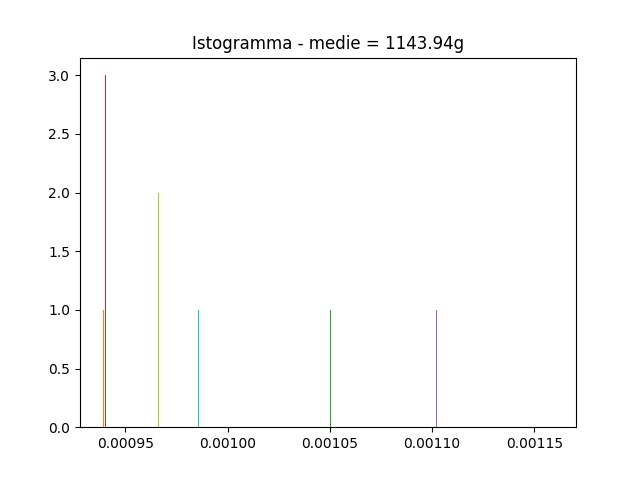
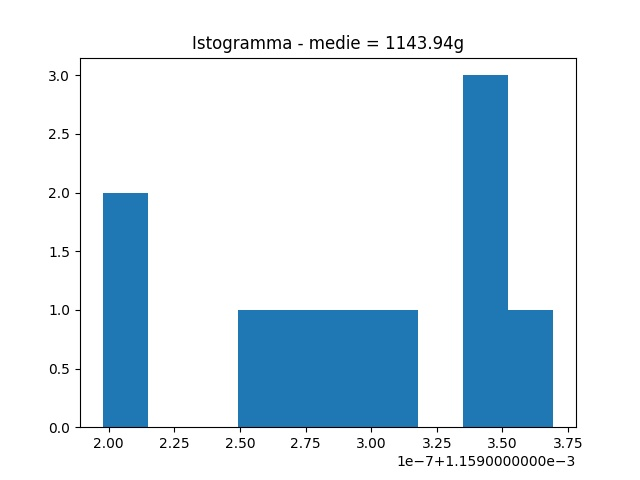
path

Changed region(s): [[0.125, 0.1562, 0.9062, 0.9688]]

diff --git a/ScriptGestioneFeatures/static_data_work/main.py b/ScriptGestioneFeatures/static_data_work/main.py
@@ -10,12 +10,13 @@ import PreparazioneFile
 url = 'https://raw.githubusercontent.com/EdoGitMira/Progetto_Laboratorio_Misure_pesatura_dinamica/main/dati'
 url_name_velocity = 'https://raw.githubusercontent.com/EdoGitMira/Progetto_Laboratorio_Misure_pesatura_dinamica/main/dati/speed.txt'
 
-path_testo = Path(__file__).parent / "../dati/Features/Statiche"
+path_repo = Path(__file__).parents[2]
+path_dir = os.path.join(path_repo, "./dati/Features/Statiche")
 file_name = "0-FeaturePesiSatici.txt"
-complete_name = os.path.join(path_testo, file_name)
+complete_name = os.path.join(path_dir, file_name)
 
 file_name_m_o_m = '1-FeaturePesiStaticiDiFeature.txt'
-complete_name_m_o_m = os.path.join(path_testo, file_name_m_o_m)
+complete_name_m_o_m = os.path.join(path_dir, file_name_m_o_m)
 
 
 
@@ -63,10 +64,10 @@ if __name__ == '__main__':
     #PlotFilesData.prepare_arrays(grams, voltage)
     #PlotFilesData.prepare_arrays(masses,means)
 
-    #intestazione = 'peso [g]' + '\t\t' + 'media [V]' + '\t\t' + 'std_dev [V]'
-    #scrittura_txt(lista, complete_name, intestazione)
+    intestazione = 'peso [g]' + '\t\t' + 'media [V]' + '\t\t' + 'std_dev [V]'
+    scrittura_txt(lista, complete_name, intestazione)
 
     ordered_list = CalcoloFeatures.sort_multiple_means(masses, means, std_dev)
-    CalcoloFeatures.histograms(ordered_list)
-    #list_means_of_means = CalcoloFeatures.mean_of_means(ordered_list)
-    #scrittura_txt_m_o_m(list_means_of_means ,complete_name_m_o_m ,intestazione)
+    #CalcoloFeatures.histograms(ordered_list)
+    list_means_of_means = CalcoloFeatures.mean_of_means(ordered_list)
+    scrittura_txt_m_o_m(list_means_of_means ,complete_name_m_o_m ,intestazione)

diff --git a/ScriptGestioneFeatures/static_data_work/CalcoloFeatures.py b/ScriptGestioneFeatures/static_data_work/CalcoloFeatures.py
@@ -59,12 +59,11 @@ def mean_of_means(lista):
 
     lista_m_of_m = []
     i = 1
-
     precedente = lista[0][0]
     for row in lista:
 
         attuale = row[0]
-        if attuale > (precedente + 0.2) or attuale == lista[-1]:
+        if attuale > (precedente + 0.2) or i == len(lista):
             riga = [str(round(mean(list_mass), 2)), str(mean(list_mean)), str(stdev(list_mean))]
             lista_m_of_m.append(riga)
             list_mass.clear()
@@ -73,7 +72,7 @@ def mean_of_means(lista):
 
         list_mass.append(attuale)
         list_mean.append(row[1])
-
+        i += 1
     return lista_m_of_m
 
 def histograms(lista):
@@ -87,18 +86,17 @@ def histograms(lista):
     i = 1
     cartella = './istogrammi/'
     precedente = lista[0][0]
+    i = 1
     for row in lista:
-
         attuale = row[0]
-        if attuale > (precedente + 0.2) or attuale == lista[-1]:
+        if attuale > (precedente + 0.2) or i == len(lista):
             save_plot_histogram(list_mean,precedente,cartella)
             list_mass.clear()
             list_mean.clear()
             precedente = attuale
-
         list_mass.append(attuale)
         list_mean.append(row[1])
-
+        i += 1
     return lista_m_of_m
 
 def save_plot_histogram(lista,massa,cartella='istogrammi/'):
@@ -107,4 +105,4 @@ def save_plot_histogram(lista,massa,cartella='istogrammi/'):
     plt.title(f'Istogramma - medie = {massa}g')
     path = f'{cartella}{massa}g.jpg';
     plt.savefig(path)
-    #plt.show()
+    plt.show()

diff --git a/ScriptGestioneFeatures/static_data_work/testmisura.py b/ScriptGestioneFeatures/static_data_work/testmisura.py
@@ -7,18 +7,6 @@ from matplotlib import pyplot as plt
 import numpy as np
 
 
-def lettura_file(path='dati_Prove/test-25-11-13-41-26.csv',delimeter=';'):
-    '''Legge il file e ritorna un numpy array
-    di una sola colonna con i valori acquisiti
-    :returns LISTA_Voltage
-    '''
-    f = pd.read_csv(path, delimiter = delimeter)
-    f['Bridge'] = [x.replace(',', '.') for x in f['Bridge']]
-    voltage = f.Bridge.to_list()
-    voltage = voltage[3:]
-    voltage = np.float_(voltage)
-    return voltage
-
 def splpit_pandas(f,column,n):
     f[column] = [x.replace(',', '.') for x in f[column]]
     l = f[column].tolist()
@@ -66,11 +54,13 @@ def write_csv_txt(lista,path = 'dati_Prove/medieMobili',_delimeter='\n',_header=
     np.savetxt(pathtxt, lista, delimiter=_delimeter, header=_header)
     np.savetxt(pathcsv, lista, delimiter=_delimeter, header=_header)
 
+
 n = 6
 path_dati = 'dati_Prove/prova_temp-29-11-14-06-15.csv'
 l = lettura_file_N(path_dati,n,';')
 plot_data(l[0],'Cella di Carico','peso.jpg')
 plot_multiple_data(l[1:],'Temperature',['env','cell'],'tCells.jpg')
+
 
 '''
 voltage = lettura_file('dati_Prove/test1-26-11-09-29-00.csv')

diff --git a/ScriptGestioneFeatures/static_data_work/PreparazioneFile.py b/ScriptGestioneFeatures/static_data_work/PreparazioneFile.py
@@ -23,7 +23,7 @@ def lista_features_statico(url_repo, url_name):  # read all file from git hub an
         mass = read_names_url_txt(url_mass)
         data_mass = []
         print('load file with velocity \t' + velocity)
-
+        
         for mass_file in mass:  # read all file names in velocity for each kind of mass
             print('catchment mass \t' + mass_file)
             url_github = url_repo + '/' + velocity + '/' + mass_file
